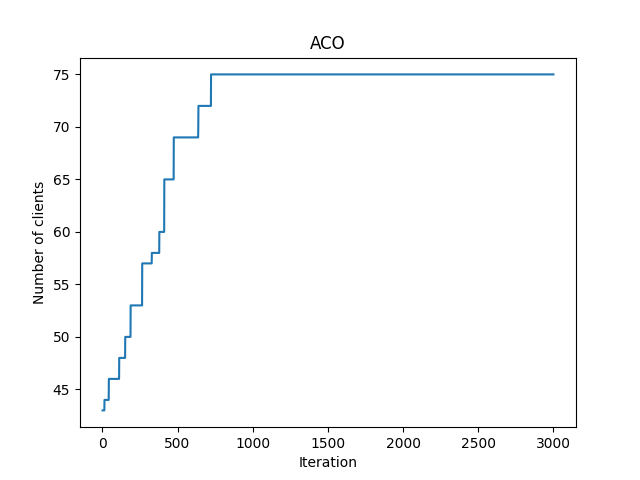
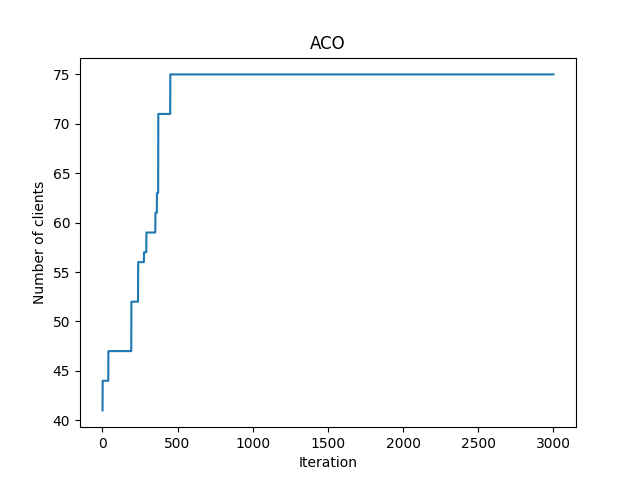
heuristics

diff --git a/PIZZA/algorithms/aco/intialisePheromone.cpp b/PIZZA/algorithms/aco/intialisePheromone.cpp
@@ -4,6 +4,7 @@
 
 #include "aco.h"
 #include "../../heuristics/RandomGreedy.h"
+#include "../../heuristics/RandomInit.h"
 
 void aco::initialisePheromoneClassicWay() {
     //initialize pheromone classic way
@@ -18,21 +19,21 @@ void aco::initialisePheromoneHeuristicWay() {
     //initialize pheromone using heuristic way
     for (int i = 0; i < graph.numberOfClients; i++) {
         for (auto &d: graph.G[i]) {
-            pheromone[i][d] = (min_pheromone+max_pheromone)/2.0;
+            pheromone[i][d] = min_pheromone;
         }
     }
-    for(int j=0;j<initialCliqueCnt;j++) {
-        vector<bool> clique = RandomGreedy(graph);
-        vector<int>nodes;
-        for(int i=0;i<graph.numberOfClients;i++){
-            if(clique[i]) nodes.push_back(i);
+    for (int j = 0; j < initialCliqueCnt; j++) {
+        vector<bool> clique = RandomInit(graphInv);
+        vector<int> nodes;
+        for (int i = 0; i < graph.numberOfClients; i++) {
+            if (clique[i]) nodes.push_back(i);
         }
-        long double temp= (nodes.size())*(nodes.size());
-        temp/=graph.edges.size();
-        for(auto &c:nodes){
-            for(auto d:nodes){
-                if(c!=d){
-                    pheromone[c][d]=min(max_pheromone,temp+pheromone[c][d]);
+        long double temp = (nodes.size()) * (nodes.size());
+        temp /= graph.edges.size();
+        for (auto &c: nodes) {
+            for (auto d: nodes) {
+                if (c != d) {
+                    pheromone[c][d] = min(max_pheromone, temp + pheromone[c][d]);
                 }
             }
         }

diff --git a/PIZZA/algorithms/aco/aco.cpp b/PIZZA/algorithms/aco/aco.cpp
@@ -17,14 +17,14 @@
 //    pheromone.resize(graph.numberOfClients);
 //}
 
-aco::aco(const Input& _input) :input(_input),graph(_input,true) {
+aco::aco(const Input& _input) :input(_input),graph(_input,true),graphInv(_input) {
     num_ants = 10;
     min_pheromone = 0.5;
-    max_pheromone = 5;
+    max_pheromone = 20;
     alpha = 2;
     max_cycles = 1000;
     evaporation = 0.995;
-    initialCliqueCnt = 1000;
+    initialCliqueCnt = 100;
     pheromone.resize(graph.numberOfClients);
     initializePheromoneClassicalWay = true;
 }

diff --git a/PIZZA/main.cpp b/PIZZA/main.cpp
@@ -38,10 +38,10 @@ int main() {
 //
 //    aco solver=aco(g);
 //    Output o=solver.run(3001);
-    string filePath = "test_data/gen400-p0-9-75.txt";
+    string filePath = "test_data/C500-9.txt";
     aco solver = aco(Input(filePath));
-    solver.initializePheromoneClassicalWay=true;
+    solver.initializePheromoneClassicalWay=false;
     Output o = solver.run(3001);
 //    dbg_out(o.features);
-//    dbg_out(Score::calculate(input,o));
+    dbg_out(Score::calculate(Input(filePath),o));
 }

diff --git a/PIZZA/algorithms/aco/aco.h b/PIZZA/algorithms/aco/aco.h
@@ -20,6 +20,7 @@ public:
     long double initialCliqueCnt;
     bool initializePheromoneClassicalWay;
     uint32_t max_cycles;
+    Graph graphInv;
     Graph graph;
     Input input;
     vector<unordered_map<uint32_t ,long double>>pheromone;
